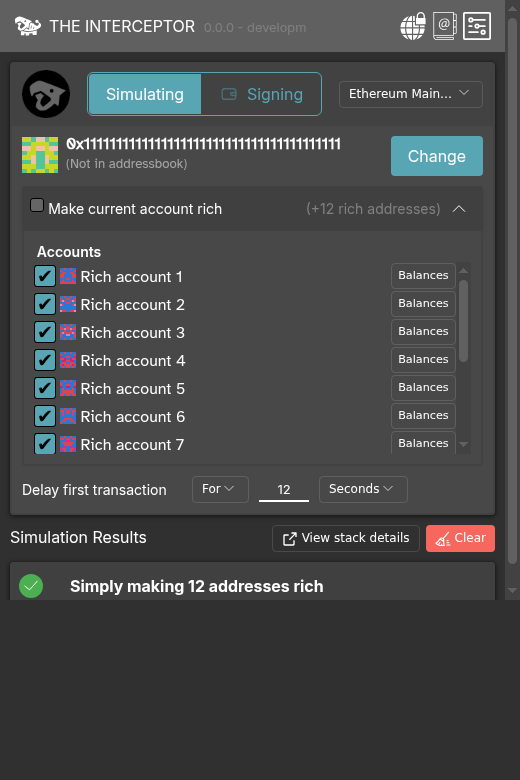
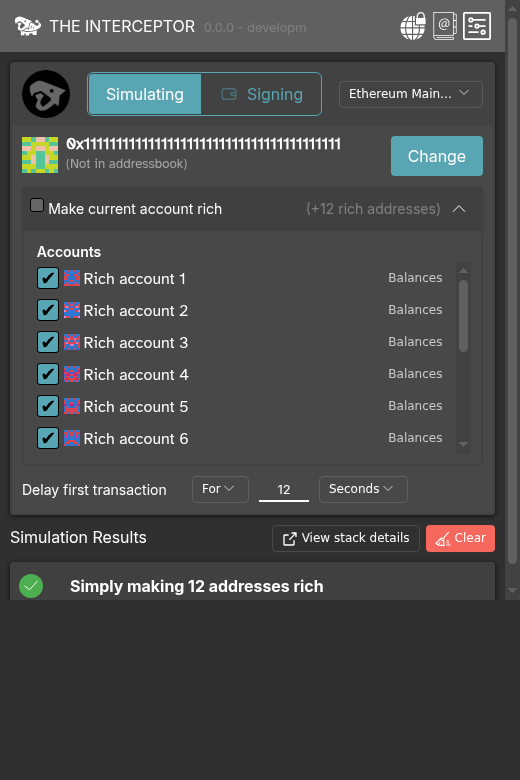
Polish rich mode dialogs

Changed region(s): [[0.0615, 0.3385, 0.3692, 0.5846], [0.7385, 0.3385, 0.8923, 0.5846]]

diff --git a/app/ts/components/pages/Home.tsx b/app/ts/components/pages/Home.tsx
@@ -12,13 +12,13 @@ import { DinoSays } from '../subcomponents/DinoSays.js'
 import type { Website } from '../../types/websiteAccessTypes.js'
 import type { TransactionOrMessageIdentifier } from '../../types/interceptor-messages.js'
 import type { AddressBookEntry } from '../../types/addressBookTypes.js'
-import { BroomIcon, ChevronIcon, OpenInNewIcon } from '../subcomponents/icons.js'
+import { BroomIcon, ChevronIcon, OpenInNewIcon, XMarkIcon } from '../subcomponents/icons.js'
 import { RpcSelector } from '../subcomponents/ChainSelector.js'
 import { type Signal, type ReadonlySignal, useComputed, useSignal, useSignalEffect } from '@preact/signals'
 import { useEffect } from 'preact/hooks'
 import { type DeltaUnit, TimePicker, type TimePickerMode, getTimeManipulatorFromSignals } from '../subcomponents/TimePicker.js'
 import { assertNever } from '../../utils/typescript.js'
-import { bigintSecondsToDate } from '../../utils/bigint.js'
+import { addressString, bigintSecondsToDate } from '../../utils/bigint.js'
 import { DEFAULT_BLOCK_MANIPULATION } from '../../simulation/services/SimulationModeEthereumClientService.js'
 import type { EnrichedRichListElement } from '../../types/interceptor-reply-messages.js'
 import type { RichAccountBalance, RichTokenOption } from '../../types/richMode.js'
@@ -528,14 +528,14 @@ function RichList({ makeCurrentAddressRich, richNativeAmount, nativeCurrencyTick
 			: <div class = 'card-content'>
 				<div style = { { display: 'flex', flexDirection: 'column' } } >
 					<p class = 'paragraph checkbox-text' style = 'white-space: nowrap; font-weight: 600;'> Accounts</p>
-					<div aria-label = 'Additional rich accounts' style = 'max-height: 12em; overflow-y: auto;'>
+					<div aria-label = 'Additional rich accounts' class = 'rich-mode-account-list'>
 						{ visibleRichList.value.map((richListElement) => {
 							const accountIsRich = richAccounts.value.some((account) => account.addressBookEntry.address === richListElement.addressBookEntry.address)
 							const isCurrentAddressRow = richListElement.type === 'CurrentActiveAddress'
-							return <div style = 'display: grid; grid-template-columns: 1em minmax(0, 1fr) min-content; gap: 0.65em; align-items: center;' key = { richListElement.addressBookEntry.address.toString() }>
+							return <div class = 'rich-mode-account-row' key = { richListElement.addressBookEntry.address.toString() }>
 								<input type = 'checkbox' disabled = { !isInitialHomeDataLoaded.value } checked = { isCurrentAddressRow ? makeCurrentAddressRich.value : richListElement.makingRich } aria-label = { `Toggle rich address ${ richListElement.addressBookEntry.address.toString() }` } onInput = { e => { if (e.target instanceof HTMLInputElement && e.target !== null) { isCurrentAddressRow ? enableMakeCurrentAddressRich(e.target.checked) : modifyRichList(richListElement.addressBookEntry, e.target.checked) } } } />
 								<div style = 'min-width: 0;'><SmallAddress addressBookEntry = { richListElement.addressBookEntry } renameAddressCallBack = { renameAddressCallBack } noCopying = { !isInitialHomeDataLoaded.value } noEditAddress = { !isInitialHomeDataLoaded.value }/></div>
-								<button type = 'button' class = 'btn btn--outline is-small' style = 'font-size: 0.7rem; padding: 0.15rem 0.4rem;' disabled = { !accountIsRich } aria-label = { `Edit balances for ${ richListElement.addressBookEntry.name }` } onClick = { () => { selectedRichAddress.value = richListElement.addressBookEntry.address; showRichBalanceDialog.value = true } }>Balances</button>
+								<button type = 'button' class = 'btn btn--ghost is-small rich-mode-balance-action' disabled = { !accountIsRich } aria-label = { `Edit balances for ${ richListElement.addressBookEntry.name }` } onClick = { () => { selectedRichAddress.value = richListElement.addressBookEntry.address; showRichBalanceDialog.value = true } }>Balances</button>
 							</div>
 						}) }
 					</div>
@@ -546,37 +546,45 @@ function RichList({ makeCurrentAddressRich, richNativeAmount, nativeCurrencyTick
 			? <></>
 			: <div class = 'modal is-active' aria-modal = 'true' role = 'dialog' aria-label = { `Balance editor for ${ selectedRichAccount.value.addressBookEntry.name }` }>
 				<div class = 'modal-background' onClick = { () => { if (!richTokenPending.value) showRichBalanceDialog.value = false } }/>
-				<div class = 'modal-card' style = 'width: calc(100% - 2rem); max-height: calc(100% - 2rem);'>
-					<header class = 'modal-card-head' style = 'padding: 0.75rem;'>
-						<div style = 'min-width: 0; flex: 1;'>
-							<p class = 'modal-card-title' style = 'font-size: 1rem;'>Balances</p>
-							<p class = 'help' style = 'overflow: hidden; text-overflow: ellipsis; white-space: nowrap;'>{ selectedRichAccount.value.addressBookEntry.name }</p>
+				<div class = 'modal-card rich-mode-modal-card'>
+					<header class = 'modal-card-head card-header interceptor-modal-head window-header rich-mode-modal-head'>
+						<div class = 'card-header-icon unset-cursor'>
+							<span class = 'icon'><img src = '../img/address-book.svg' width = '24' height = '24'/></span>
 						</div>
-						<button type = 'button' class = 'delete' aria-label = 'Close balance editor' disabled = { richTokenPending.value } onClick = { () => { showRichBalanceDialog.value = false } }/>
+						<div class = 'card-header-title'>
+							<p class = 'paragraph'>Balances</p>
+							<p class = 'rich-mode-modal-account'>{ selectedRichAccount.value.addressBookEntry.name }</p>
+						</div>
+						<button type = 'button' class = 'card-header-icon' aria-label = 'Close balance editor' disabled = { richTokenPending.value } onClick = { () => { showRichBalanceDialog.value = false } }><XMarkIcon/></button>
 					</header>
-					<section class = 'modal-card-body' style = 'padding: 0.75rem;'>
-						<div style = 'display: flex; justify-content: flex-end; gap: 0.4em; padding-bottom: 0.5em;'>
-							<button type = 'button' class = 'button is-small' aria-label = 'Open token address book' data-tooltip = 'Open token address book' onClick = { () => { void sendPopupMessageToBackgroundPage({ method: 'popup_openAddressBook' }) } }>
+					<section class = 'modal-card-body'>
+						<div class = 'card rich-mode-modal-content'>
+						<div class = 'card-content'>
+						<div class = 'rich-mode-modal-toolbar'>
+							<p class = 'paragraph checkbox-text rich-mode-modal-section-title'>Amounts</p>
+							<div class = 'actions'>
+							<button type = 'button' class = 'btn btn--outline is-small' aria-label = 'Open token address book' data-tooltip = 'Open token address book' onClick = { () => { void sendPopupMessageToBackgroundPage({ method: 'popup_openAddressBook' }) } }>
 								<span class = 'icon'><img src = '../img/address-book.svg' width = '18' height = '18'/></span>
 							</button>
 							<button
 								type = 'button'
-								class = 'button is-small is-primary'
+								class = 'btn btn--primary is-small'
 								aria-label = 'Choose rich token'
 								data-tooltip = 'Choose from the address book; only the selected contract is checked'
 								disabled = { richTokenPending.value || selectedRichProfile.value === undefined || availableRichTokens.value.length === 0 }
 								onClick = { () => { richTokenSearch.value = ''; showRichTokenPicker.value = true } }
 							>+ Token</button>
+							</div>
 						</div>
 						{ selectedRichProfile.value === undefined ? <p class = 'help'>This account has no balance profile.</p> : <>
-							<div style = 'display: grid; grid-template-columns: 1em minmax(4em, 1fr) minmax(5em, 8em); gap: 0.75em; align-items: center; padding: 0.15em 0;'>
+							<div class = 'rich-mode-balance-row'>
 								<span/>
 								<span class = 'paragraph checkbox-text'>{ nativeCurrencyTicker }</span>
 								<input class = 'input is-small' aria-label = { `${ nativeCurrencyTicker } rich amount for ${ selectedRichAccount.value.addressBookEntry.name }` } disabled = { richTokenPending.value } value = { formatUnits(selectedRichProfile.value.nativeAmount, 18) } onChange = { event => { setNativeAmount(event.currentTarget) } } />
 							</div>
-							<div aria-busy = { richTokenPending.value } aria-label = 'Configured rich tokens' style = 'max-height: 14em; overflow-y: auto;'>
+							<div aria-busy = { richTokenPending.value } aria-label = 'Configured rich tokens' class = 'rich-mode-configured-tokens'>
 								{ enabledRichTokens.value.map((option) =>
-									<div style = 'display: grid; grid-template-columns: 1em minmax(4em, 1fr) minmax(5em, 8em); gap: 0.75em; align-items: center; padding: 0.15em 0;' key = { getRichTokenKey(option) }>
+									<div class = 'rich-mode-balance-row' key = { getRichTokenKey(option) }>
 										<button type = 'button' class = 'delete is-small' disabled = { richTokenPending.value } aria-label = { `Remove rich token ${ getRichTokenLabel(option) }` } onClick = { () => { void setRichTokenEnabled(option, false) } } />
 										<span class = 'paragraph checkbox-text'>{ getRichTokenLabel(option) }</span>
 										<input class = 'input is-small' aria-label = { `${ getRichTokenLabel(option) } rich amount` } disabled = { !option.enabled || richTokenPending.value } value = { formatUnits(option.amount, Number(option.decimals)) } onChange = { event => { void setRichTokenAmount(option, event.currentTarget) } } />
@@ -586,7 +594,12 @@ function RichList({ makeCurrentAddressRich, richNativeAmount, nativeCurrencyTick
 						</> }
 						{ richTokenPendingLabel.value === undefined ? <></> : <p class = 'help is-light' role = 'status'>{ richTokenPendingLabel.value }</p> }
 						{ richTokenError.value === undefined ? <></> : <p class = 'help is-danger'>{ richTokenError.value }</p> }
+						</div>
+						</div>
 					</section>
+					<footer class = 'modal-card-foot window-footer rich-mode-modal-footer'>
+						<button type = 'button' class = 'btn btn--outline' disabled = { richTokenPending.value } onClick = { () => { showRichBalanceDialog.value = false } }>Close</button>
+					</footer>
 				</div>
 			</div>
 		}
@@ -594,12 +607,20 @@ function RichList({ makeCurrentAddressRich, richNativeAmount, nativeCurrencyTick
 			? <></>
 			: <div class = 'modal is-active' aria-modal = 'true' role = 'dialog' aria-label = { `Add token balance for ${ selectedRichAccount.value.addressBookEntry.name }` }>
 				<div class = 'modal-background' onClick = { () => { if (!richTokenPending.value) showRichTokenPicker.value = false } }/>
-				<div class = 'modal-card' style = 'width: calc(100% - 2rem); max-height: calc(100% - 2rem);'>
-					<header class = 'modal-card-head' style = 'padding: 0.75rem;'>
-						<p class = 'modal-card-title' style = 'font-size: 1rem;'>Add token</p>
-						<button type = 'button' class = 'delete' aria-label = 'Close token picker' disabled = { richTokenPending.value } onClick = { () => { showRichTokenPicker.value = false } }/>
+				<div class = 'modal-card rich-mode-modal-card'>
+					<header class = 'modal-card-head card-header interceptor-modal-head window-header rich-mode-modal-head'>
+						<div class = 'card-header-icon unset-cursor'>
+							<span class = 'icon'><img src = '../img/address-book.svg' width = '24' height = '24'/></span>
+						</div>
+						<div class = 'card-header-title'>
+							<p class = 'paragraph'>Add token</p>
+							<p class = 'rich-mode-modal-account'>{ selectedRichAccount.value.addressBookEntry.name }</p>
+						</div>
+						<button type = 'button' class = 'card-header-icon' aria-label = 'Close token picker' disabled = { richTokenPending.value } onClick = { () => { showRichTokenPicker.value = false } }><XMarkIcon/></button>
 					</header>
-					<section class = 'modal-card-body' style = 'padding: 0.75rem;'>
+					<section class = 'modal-card-body'>
+						<div class = 'card rich-mode-modal-content'>
+						<div class = 'card-content'>
 						<div class = 'field'>
 							<div class = 'control'>
 								<input
@@ -613,27 +634,31 @@ function RichList({ makeCurrentAddressRich, richNativeAmount, nativeCurrencyTick
 								/>
 							</div>
 						</div>
-						<div aria-label = 'Matching address-book tokens' style = 'display: flex; flex-direction: column; gap: 0.4em; overflow-y: auto;'>
+						<div aria-label = 'Matching address-book tokens' class = 'rich-mode-token-results'>
 								{ matchingAvailableRichTokens.value.map((option) =>
 									<button
 										type = 'button'
 										data-rich-token-result = { getRichTokenKey(option) }
-										class = 'button'
-										style = 'display: grid; grid-template-columns: minmax(4em, auto) minmax(0, 1fr); text-align: left; width: 100%; height: auto;'
+										class = 'btn btn--ghost rich-mode-token-result'
 										disabled = { richTokenPending.value }
-										aria-label = { `Add rich token ${ getRichTokenLabel(option) } ${ option.tokenAddress.toString() }` }
+										aria-label = { `Add rich token ${ getRichTokenLabel(option) } ${ addressString(option.tokenAddress) }` }
 										onClick = { () => { void addRichToken(option) } }
 										key = { getRichTokenKey(option) }
 									>
 										<strong>{ getRichTokenLabel(option) }</strong>
-										<span style = 'color: var(--subtitle-text-color); overflow: hidden; text-overflow: ellipsis; padding-left: 0.75em;'>{ option.name }<br/><small>{ `0x${ option.tokenAddress.toString(16).padStart(40, '0') }` }</small></span>
+										<span class = 'rich-mode-token-result-details'>{ option.name }<br/><small>{ addressString(option.tokenAddress) }</small></span>
 									</button>
 								) }
 								{ matchingAvailableRichTokens.value.length === 0 ? <p class = 'help'>No matching tokens in the active-chain address book.</p> : <></> }
 							</div>
 						{ richTokenPendingLabel.value === undefined ? <></> : <p class = 'help is-light' role = 'status'>{ richTokenPendingLabel.value }</p> }
 						{ richTokenError.value === undefined ? <></> : <p class = 'help is-danger'>{ richTokenError.value }</p> }
+						</div>
+						</div>
 					</section>
+					<footer class = 'modal-card-foot window-footer rich-mode-modal-footer'>
+						<button type = 'button' class = 'btn btn--outline' disabled = { richTokenPending.value } onClick = { () => { showRichTokenPicker.value = false } }>Back to balances</button>
+					</footer>
 				</div>
 			</div>
 		}

diff --git a/app/css/interceptor.css b/app/css/interceptor.css
@@ -3158,6 +3158,120 @@ header:has(form[role='search']) h1 {
 	border-bottom: 1px solid var(--white-alpha-20);
 }
 
+.rich-mode-account-list {
+	max-height: 12em;
+	overflow-y: auto;
+	padding-right: 0.25rem;
+}
+
+.rich-mode-account-row {
+	align-items: center;
+	border-radius: 4px;
+	display: grid;
+	gap: 0.65em;
+	grid-template-columns: 1em minmax(0, 1fr) min-content;
+	min-height: 2rem;
+	padding: 0.1rem 0.2rem;
+}
+
+.rich-mode-account-row:hover {
+	background-color: var(--alpha-005);
+}
+
+.rich-mode-balance-action {
+	--btn-text-color: var(--subtitle-text-color);
+	font-size: 0.7rem;
+	min-height: 1.8em;
+	padding: 0.15rem 0.4rem;
+}
+
+.rich-mode-modal-card {
+	max-height: calc(100% - 2rem);
+	width: calc(100% - 2rem);
+}
+
+.rich-mode-modal-head .card-header-title {
+	align-items: flex-start;
+	display: flex;
+	flex-direction: column;
+	gap: 0.1rem;
+	min-width: 0;
+}
+
+.rich-mode-modal-account {
+	color: var(--subtitle-text-color);
+	font-size: 0.7rem;
+	font-weight: normal;
+	max-width: 100%;
+	overflow: hidden;
+	text-overflow: ellipsis;
+	white-space: nowrap;
+}
+
+.rich-mode-modal-content {
+	margin: 10px;
+}
+
+.rich-mode-modal-toolbar {
+	align-items: center;
+	display: flex;
+	justify-content: space-between;
+	margin-bottom: 0.5rem;
+}
+
+.rich-mode-modal-section-title {
+	font-weight: 600;
+}
+
+.rich-mode-balance-row {
+	align-items: center;
+	display: grid;
+	gap: 0.75em;
+	grid-template-columns: 1em minmax(4em, 1fr) minmax(5em, 8em);
+	padding: 0.2em 0;
+}
+
+.rich-mode-configured-tokens {
+	max-height: min(14em, 45vh);
+	overflow-y: auto;
+}
+
+.rich-mode-token-results {
+	display: flex;
+	flex-direction: column;
+	max-height: min(20em, 50vh);
+	overflow-y: auto;
+}
+
+.rich-mode-token-result {
+	--btn-justify: start;
+	border-bottom: 1px solid var(--white-alpha-10);
+	border-radius: 0;
+	display: grid;
+	grid-template-columns: minmax(4em, auto) minmax(0, 1fr);
+	padding: 0.6rem 0.5rem;
+	text-align: left;
+	width: 100%;
+}
+
+.rich-mode-token-result:last-child {
+	border-bottom: 0;
+}
+
+.rich-mode-token-result-details {
+	color: var(--subtitle-text-color);
+	min-width: 0;
+	overflow: hidden;
+	padding-left: 0.75em;
+	text-overflow: ellipsis;
+}
+
+.rich-mode-modal-footer {
+	display: flex;
+	justify-content: flex-end;
+	padding: 10px;
+}
+
 input[type="number"] {
     -moz-appearance: textfield;
 }

diff --git a/test/tests/popupIconResync.test.ts b/test/tests/popupIconResync.test.ts
@@ -1193,6 +1193,7 @@ describe('popup icon sync', () => {
 			assert.equal(tokenSearch?.getAttribute?.('placeholder'), 'Search 2 address-book tokens…')
 			const tokenResult = collectElements(dom.document.body, 'button').find((button) => button.getAttribute?.('aria-label')?.startsWith('Add rich token DAI '))
 			assert.notEqual(tokenResult, undefined)
+			assert.equal(tokenResult?.getAttribute?.('aria-label')?.includes('0x6b175474e89094c44da98b954eedeac495271d0f'), true)
 			assert.equal(tokenResult?.getAttribute?.('role'), undefined)
 			assert.equal(hasAriaLabel(dom.document.body, 'DAI rich amount'), false)
 		} finally {
